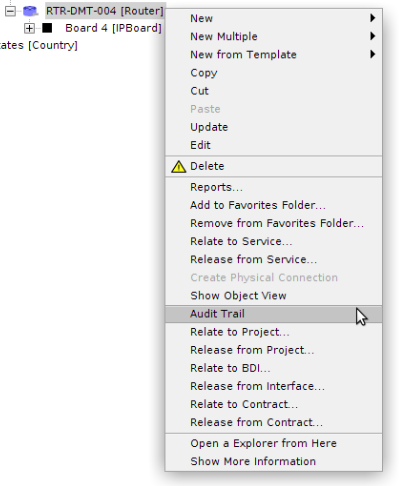
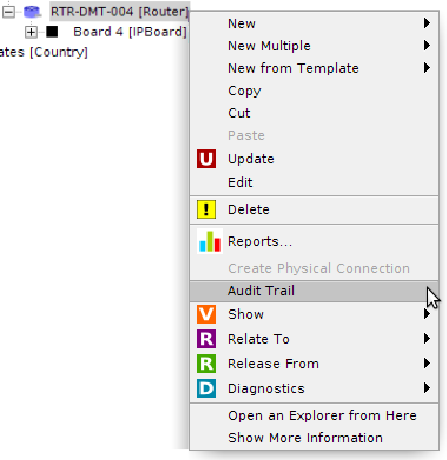
Added the section Device Layout Editor and updated screenshots

Changed region(s): [[0.0, 0.0, 0.9925, 1.0]]

diff --git a/docs/user_manual/user_manual.tex b/docs/user_manual/user_manual.tex
@@ -581,6 +581,79 @@
 		\label{fig:template_manager_select_template}
 	\end{figure}
 	
+	\subsection{Device Layout Editor} \label{sec:device_layout_editor}
+	A layout is a set of basic shapes and custom shapes that represent the look of a device, generally for the case of devices that are located in a rack, this look belongs to the back, where the slots, modules and ports are shown, for these cases the layout is used to build the rack view (see \textbf{\nameref{sec:rack_view}}).
+	\newpage
+	
+	To access in the device layout editor use the \textbf{\nameref{sec:template_manager}} selecting a template element and click Edit Layout \textbf{Figure~\ref{fig:device_layout_edit}}, if the attribute \textbf{model} is not fixed the action must be show disabled. To enable the Edit Layout action the attribute \textbf{model} must be created using the \textbf{\nameref{sec:data_model_manager}} the type of this attribute will be a list type, now create a list type item using \textbf{\nameref{sec:list_type_manager}} to set the model in the device and open the edit layout. \textbf{Figure~\ref{fig:device_layout_empty}}
+		
+	\begin{figure}[h!]
+		\centering
+		\includegraphics[width=0.9\linewidth]{img/device_layout_edit.png}
+		\caption{Edit Device Layout}
+		\label{fig:device_layout_edit}
+	\end{figure}
+		
+	The first look of the device layout editor is an empty canvas \textbf{Figure~\ref{fig:device_layout_empty}} with a guide to draw devices that can be located in a rack like a Router, and the palette use to drag and drop shapes in the canvas to build the layout, also has a toolbar describe below.
+	
+	\begin{table}[h!]
+		\centering
+		\begin{tabular}[h!]{lp{10cm}}
+			\includegraphics[width=0.5cm]{img/device_layout_save.png} & Save the Device Layout\\
+			\midrule
+			\includegraphics[width=0.5cm]{img/device_layout_delete.png} & Delete a saved Device Layout\\
+			\midrule
+			\includegraphics[width=0.5cm]{img/device_layout_clean.png} & Clean the Device Layout canvas\\
+			\midrule
+			\includegraphics[width=0.5cm]{img/device_layout_group.png} & Create a shape to group shapes\\
+			\midrule
+			\includegraphics[width=0.5cm]{img/device_layout_guide.png} & Show a guide to define the layout of a device which can be located in a rack\\
+			\midrule
+			\includegraphics[width=0.5cm]{img/device_layout_custom_shapes.png} & Show the Custom Shapes layout manager\\
+			\midrule
+			\includegraphics[width=0.5cm]{img/device_layout_show_palette.png} & Show the palette of shapes\\
+			\midrule
+		\end{tabular}
+	\end{table}
+		
+	\begin{figure}[h!]
+		\centering
+		\includegraphics[width=0.9\linewidth]{img/device_layout_empty.png}
+		\caption{Device Layout Editor}
+		\label{fig:device_layout_empty}
+	\end{figure}
+	\newpage	
+	
+	The basic shapes and custom shapes that you drop in the canvas has a set of general properties and a set of unique properties \textbf{Figure~\ref{fig:device_layout_edited}} as is shown which allow to modify the shape. Also you can resize and move the shape in the canvas, and use the actions of copy and paste, and bring to front and back to fix the shape.
+	
+	\begin{figure}[h!]
+		\centering
+		\includegraphics[width=0.9\linewidth]{img/device_layout_edited.png}
+		\caption{Editing Device Layout}
+		\label{fig:device_layout_edited}
+	\end{figure}
+	
+	If you see in the satellite view of the Device Layout Editor, there are two rectangles empty \textbf{Figure~\ref{fig:device_layout_edited}}, we call to this \textbf{slot} and inside can contain another device layouts. In the template element Cisco ASR 9001 has 2 slots the Slot-Module 0/0/0 and the Slot-Module 0/0/1, that slots are the two rectangles.
+	
+	The idea behind of slot is that you can replace layouts depending on the devices, for example the Slot-Module 0/0/0 has an A9K-MPA-20X1GE if you want render some layout this IPBoard must be has an attribute model assigned with a list type item, and a device layout edited \textbf{Figure~\ref{fig:device_layout_ipboard}}
+	
+	\begin{figure}[h!]
+		\centering
+		\includegraphics[width=0.9\linewidth]{img/device_layout_ipboard.png}
+		\caption{Editing IPBoard Layout}
+		\label{fig:device_layout_ipboard}
+	\end{figure}
+    \newpage
+	
+	Once defined the devices layout you can create a new object from template and use the action \textbf{Show $\rightarrow$ Device Layout} to see the render, for the case of the A9K-MPA-4X10GE IPBoard that no has layout, shown a default device layout \textbf{Figure~\ref{fig:device_layout_render}}.
+	
+	\begin{figure}[h!]
+		\centering
+		\includegraphics[width=0.9\linewidth]{img/device_layout_show.png}
+		\caption{Render of Cisco ASR 9001 Ninth Av}
+		\label{fig:device_layout_render}
+	\end{figure}
+			
 	\clearpage
 	\section{List Type Manager} \label{sec:list_type_manager}
 	Most of the attributes are primitive types (String, Integer, Booleans, etc), however, there are some more complex that are actually another object in the database. This is the case of attributes such as \textit{vendor}, which points to an object holding the information about the vendor of that equipment (support lines, account manager, etc) or \textit{state}, that refers to the current operational state of the equipment (Working, Not Working, Stored, etc) and the state itself is an object, because it may hold information about what are the next allowed states, for example. Many objects in the database will have the same \textit{vendor}, and many other will have the same \textit{state}. In short, list types are those kind of attributes that point to an element in a limited set of objects. In terms of relational databases, you can see it as a many-to-one kind of relationship. To manage the existing list types and its instances, use the \textbf{\nameref{sec:data_model_manager}} and the \textbf{\nameref{sec:list_type_manager}}. \newline
@@ -1028,7 +1101,7 @@
 		If all values are correct, the view should look like this:
 		\begin{figure}[h!]
 			\centering
-			\includegraphics[width=0.7\linewidth]{img/rack_view_sample_view.png}
+			\includegraphics[width=0.9\linewidth]{img/rack_view_sample_view.png}
 			\caption{Sample rack view}
 			\label{fig:rack_view_sample_view}
 		\end{figure}
@@ -1037,7 +1110,7 @@
 		
 		\begin{figure}[h!]
 			\centering
-			\includegraphics[width=0.1\linewidth]{img/rack_view_toolbar.png}
+			\includegraphics[width=0.3\linewidth]{img/rack_view_toolbar.png}
 			\caption{Rack View Toolbar}
 			\label{fig:rack_view_toolbar}
 		\end{figure}
@@ -1045,12 +1118,29 @@
 		\begin{table}[h!]
 			\centering
 			\begin{tabular}[h!]{lp{10cm}}
-				\includegraphics[width=0.5cm]{img/icon_export.png} & Export to image file\\
+				\includegraphics[width=0.5cm]{img/rack_view_export.png} & Export to image file\\
 				\midrule
-				\includegraphics[width=0.5cm]{img/icon_refresh_view.png} & Refresh Rack View\\
+				\includegraphics[width=0.5cm]{img/rack_view_refresh.png} & Refresh Rack View\\
+				\midrule
+				\includegraphics[width=0.5cm]{img/rack_view_select.png} & Select a device\\
+				\midrule
+				\includegraphics[width=0.5cm]{img/rack_view_connect_ports.png} & Connects ports\\
+				\midrule
+				\includegraphics[width=0.5cm]{img/rack_view_table.png} & Show a list of connections in the selected rack\\
+				\midrule
+				\includegraphics[width=0.5cm]{img/rack_view_show_connections.png} & Show the device layouts and connections\\
 				\midrule
 			\end{tabular}
 		\end{table}
+		
+		To see the connections in the rack click the button \includegraphics[width=0.7cm]{img/rack_view_show_connections.png} and a rack view is rendered using the devices layout or default layouts \textbf{Figure~\ref{fig:rack_view_connections}} (for more information about device layout see \textbf{\nameref{sec:device_layout_editor}})
+		
+		\begin{figure}[h!]
+			\centering
+			\includegraphics[width=0.9\linewidth]{img/rack_view_connections.png}
+			\caption{Show Connections in Rack}
+			\label{fig:rack_view_connections}
+		\end{figure}
 		
 	\clearpage
 	\section{Physical Connections} \label{sec:physical_connections}
@@ -1257,7 +1347,7 @@
 					\item There's still one last step: The ports 1-Front and 1-Back in each ODF are not yet bridged. To do this, we just have to right-click any of the two ports on each ODF and select the option \textit{Connect Mirror Port...}. A mirror port is basically a direct connection between two ports. A cable is a separate object in Kuwaiba, a mirror connection is not even an object, it is just a relationship between a port an another with the same parent (that is, a sibling). You can see it as a backplane connection.
 					\begin{figure}[h!]
 						\centering
-						\includegraphics[width=0.5\linewidth]{img/l1_example_2_mirror_connection_menu.png}
+						\includegraphics[width=0.7\linewidth]{img/l1_example_2_mirror_connection_menu.png}
 						\caption{Mirror connection menu}
 						\label{fig:l1_example_2_mirror_connection_menu}
 					\end{figure}
@@ -1281,7 +1371,7 @@
 					To release a mirror port, select the option from the context port's context menu.
 					\begin{figure}[h!]
 						\centering
-						\includegraphics[width=0.3\linewidth]{img/l1_example_2_mirror_connection_release.png}
+						\includegraphics[width=0.5\linewidth]{img/l1_example_2_mirror_connection_release.png}
 						\caption{Release mirror connection menu option}
 						\label{fig:l1_example_2_mirror_connection_release}
 					\end{figure}
@@ -1434,7 +1524,7 @@
 	    To associate a software license to an existing element, right click on it on the Navigation Tree and select Create software asset:
 		\begin{figure}[h!]
 	     	\centering
-	     	\includegraphics[width=0.5\linewidth]{img/software_asset_action.png}
+	     	\includegraphics[width=0.7\linewidth]{img/software_asset_action.png}
 	     	\caption{Adding a software license}
 	     	\label{fig:software_asset_action}
 		\end{figure}
@@ -1525,7 +1615,7 @@
 	
 	\begin{figure}[h!]
 		\centering
-		\includegraphics[width=0.5\linewidth]{img/sm_release_from_service.png}
+		\includegraphics[width=0.9\linewidth]{img/sm_release_from_service.png}
 		\caption{Release an object from a service}
 		\label{fig:sm_release_from_service}
 	\end{figure}
@@ -1580,7 +1670,7 @@
 		Any inventory object can be subject to a contract. You can associate an element to an existing contract by right clicking on it and selecting the option \textit{Associate to contract...} and then selecting the desired one as shown in the figure~\ref{fig:contract_manager_contract_list}.
 		\begin{figure}[h!]
 			\centering
-			\includegraphics[width=0.4\linewidth]{img/contract_manager_associate_option.png}
+			\includegraphics[width=0.8\linewidth]{img/contract_manager_associate_option.png}
 			\caption{Associate to contract option}
 			\label{fig:contract_manager_associate_option}
 		\end{figure}		
@@ -2340,7 +2430,7 @@
 						
 			\begin{figure}[h!]
 				\centering
-				\includegraphics[width=0.8\linewidth]{img/favorites_add_to.png}
+				\includegraphics[width=0.9\linewidth]{img/favorites_add_to.png}
 				\caption{Add to Favorites folder}
 				\label{fig:favorites_add_to}
 			\end{figure}
@@ -2386,7 +2476,7 @@
 		    		    		    
 		    \begin{figure}[h!]
 		    	\centering
-		    	\includegraphics[width=0.6\linewidth]{img/projects_relate_to.png}
+		    	\includegraphics[width=0.9\linewidth]{img/projects_relate_to.png}
 		    	\caption{Relate to Project Action}
 		    	\label{fig:projects_relate_to}
 		    \end{figure}
